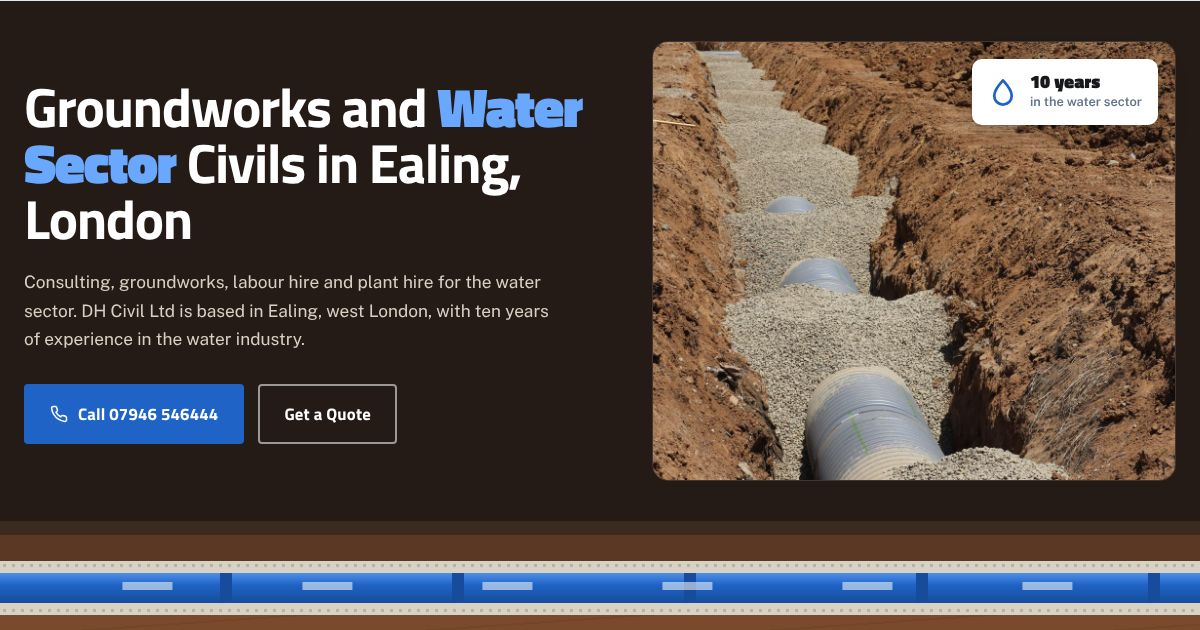
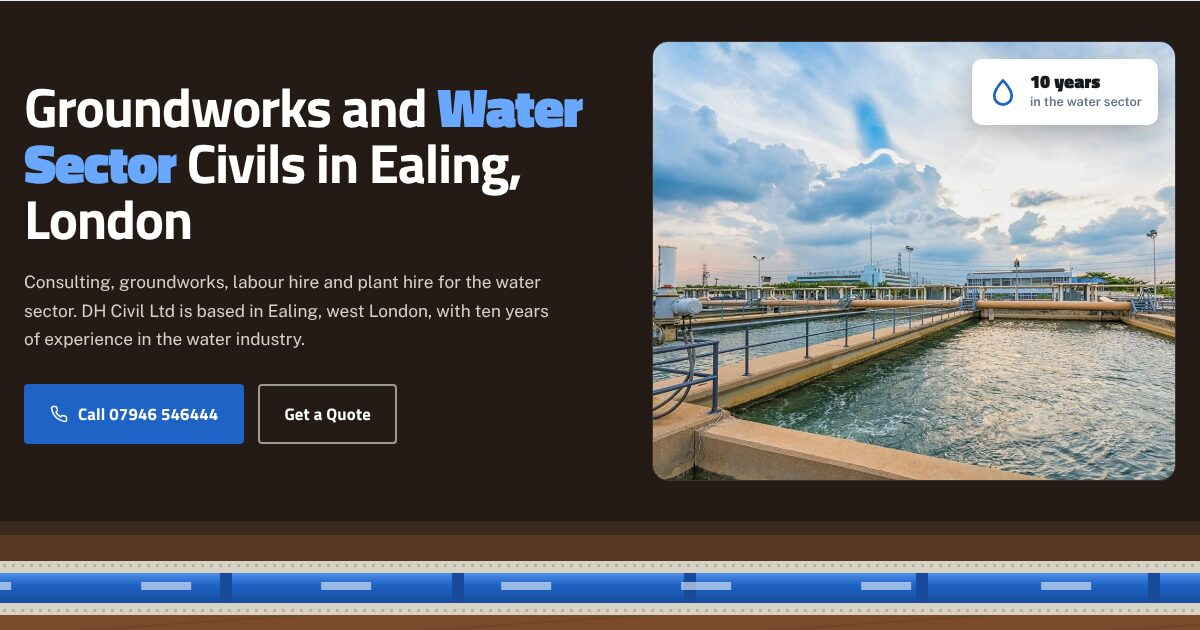
DH Civil: use the water treatment works photo from their own site as the hero
Replaces the stock trench photo in the desktop and mobile hero with the
settlement tank image from dh-civil.com, and recaptures og.jpg to match.

diff --git a/dh-civil/index.html b/dh-civil/index.html
@@ -324,7 +324,7 @@ footer ul a:hover{color:#fff}
     <div class="hero-photo fade d4">
       <div class="hero-photo-in">
         <figure>
-          <img src="hero.jpg" alt="Pipe bedded in shingle along an open trench" width="1600" height="898">
+          <img src="hero-treatment-works.jpg" alt="Settlement tanks and pipework at a water treatment works" width="1255" height="836">
         </figure>
         <div class="hero-badge"><svg viewBox="0 0 24 24" fill="none" stroke="#1f63c6" stroke-width="2.2" stroke-linecap="round" stroke-linejoin="round"><path d="M12 2.7S5 10.3 5 15a7 7 0 0 0 14 0c0-4.7-7-12.3-7-12.3z"/></svg><span><b>10 years</b><span>in the water sector</span></span></div>
       </div>
@@ -339,7 +339,7 @@ footer ul a:hover{color:#fff}
 
 <div class="hero-m" aria-hidden="false">
   <div class="wrap">
-    <figure><img src="hero.jpg" alt="Pipe bedded in shingle along an open trench" width="1600" height="898"></figure>
+    <figure><img src="hero-treatment-works.jpg" alt="Settlement tanks and pipework at a water treatment works" width="1255" height="836"></figure>
     <div class="hero-badge"><svg viewBox="0 0 24 24" fill="none" stroke="#1f63c6" stroke-width="2.2" stroke-linecap="round" stroke-linejoin="round"><path d="M12 2.7S5 10.3 5 15a7 7 0 0 0 14 0c0-4.7-7-12.3-7-12.3z"/></svg><span><b>10 years</b><span>in the water sector</span></span></div>
   </div>
 </div>
